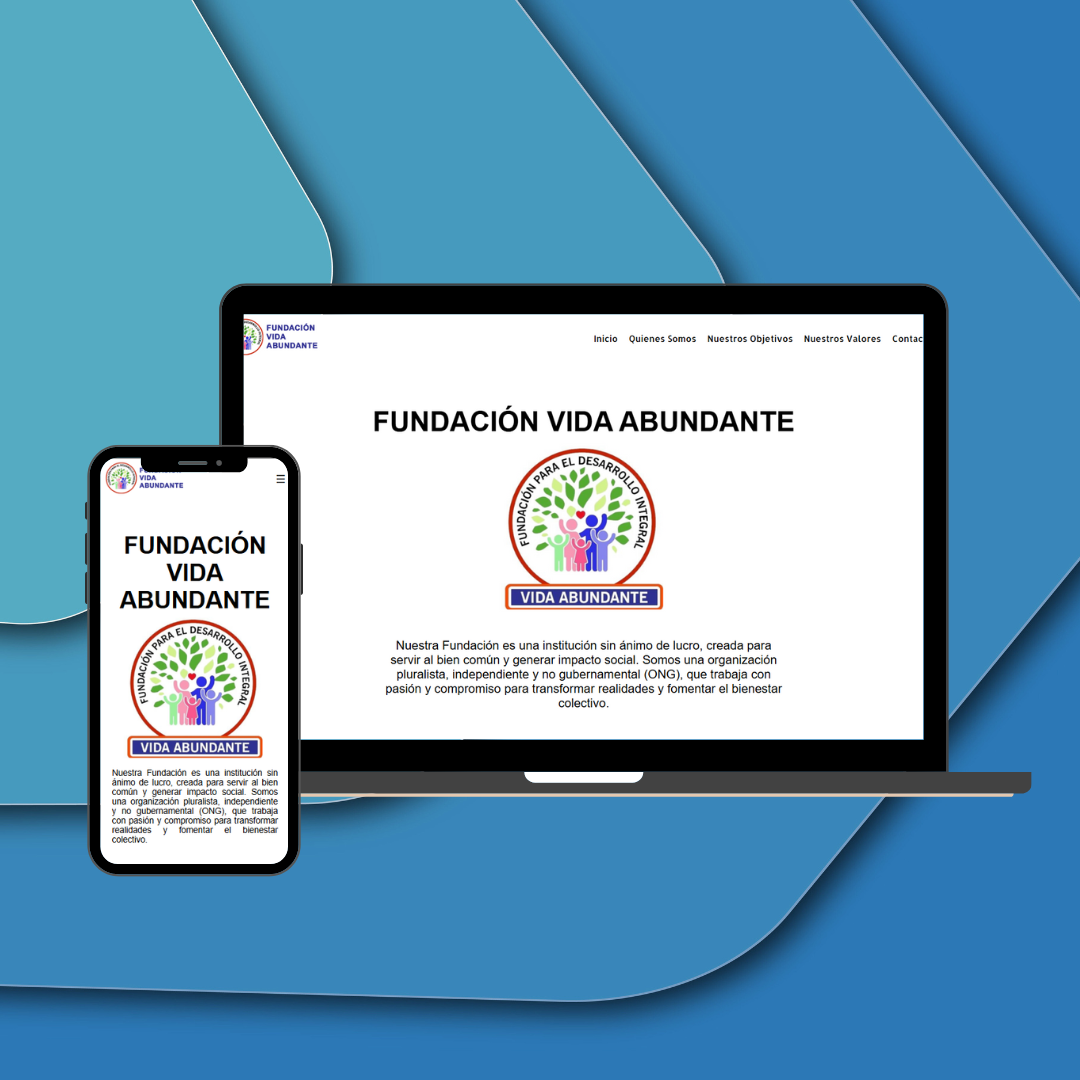
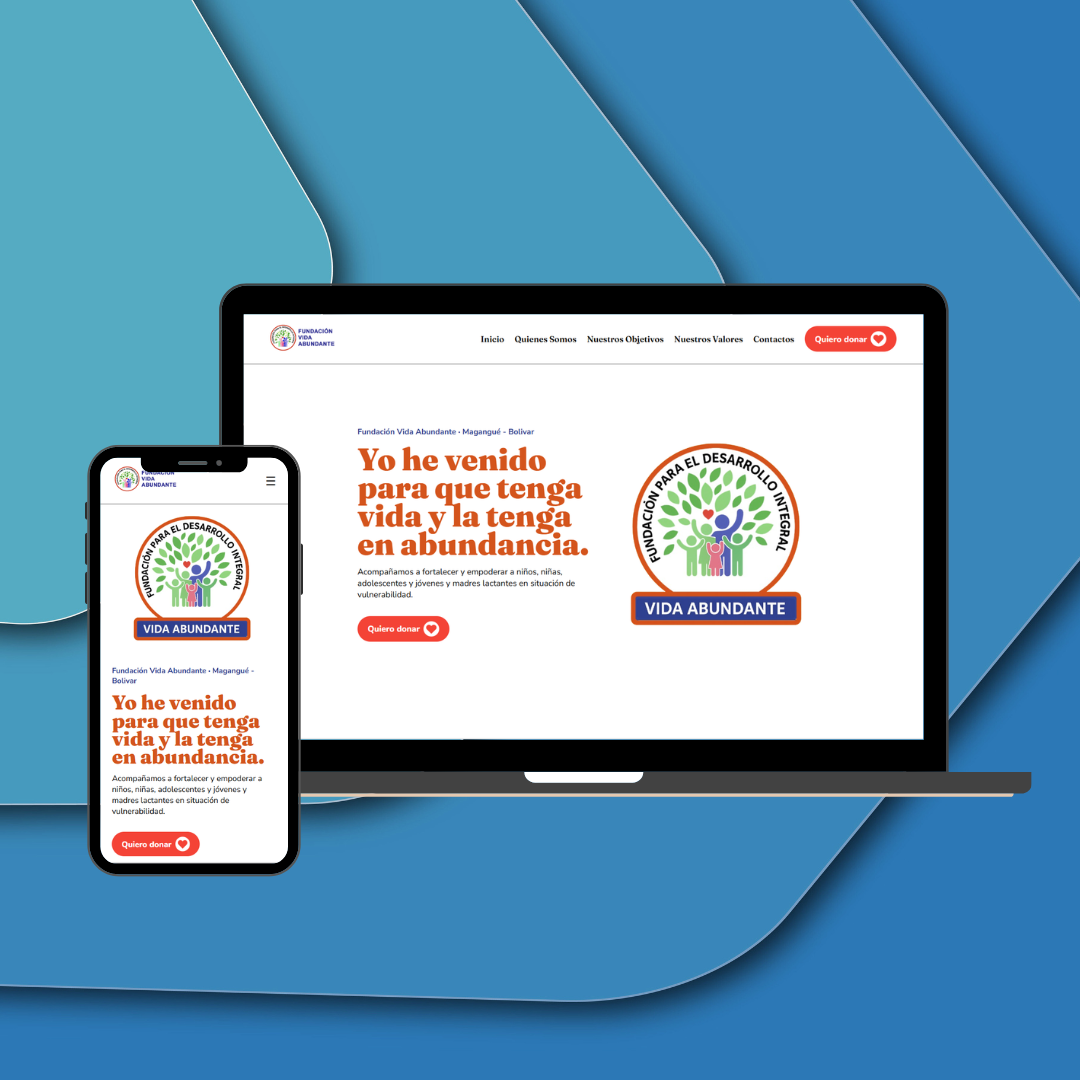
Cambio de imagen de proyecto
Cambio de imagen de proyecto "Fundación Vida Abundante"

diff --git a/index.html b/index.html
@@ -97,7 +97,7 @@
                     </section>
                     <p>Diseño y desarrollo del sitio web principal de la Fundación Vida Abundante, una organización sin ánimo de lucro ubicada en Magangué, Bolívar. El proyecto presenta la misión, visión y labor social de la fundación, facilitando la comunicación con la comunidad.</p>
                     <section class="srcProject">
-                        <a href="https://fundacionvidaabundanteong.org/" target="_blank" rel="noopener noreferrer"><i class="fa-solid fa-code"></i> Ir</a>
+                        <a href="https://jrarc201.github.io/Fundacion-Vida-Abundante/" target="_blank" rel="noopener noreferrer"><i class="fa-solid fa-code"></i> Ir</a>
                         <a href="https://github.com/JRarc201/Fundacion-Vida-Abundante" target="_blank" rel="noopener noreferrer"><i class="fa-brands fa-github"></i> Code</a>
                     </section>
                 </section>

diff --git a/css/main.css b/css/main.css
@@ -177,7 +177,7 @@
 
 @media (width >= 1550px){
     main #mainHeader{
-        padding-top: 180px;
+        padding-top: 250px;
     }
 
 
